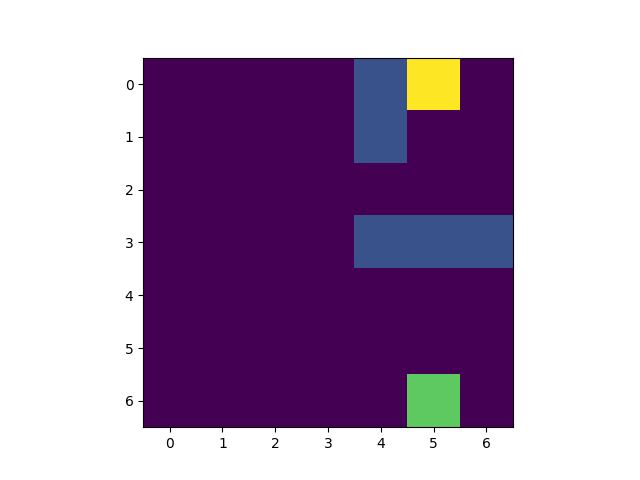
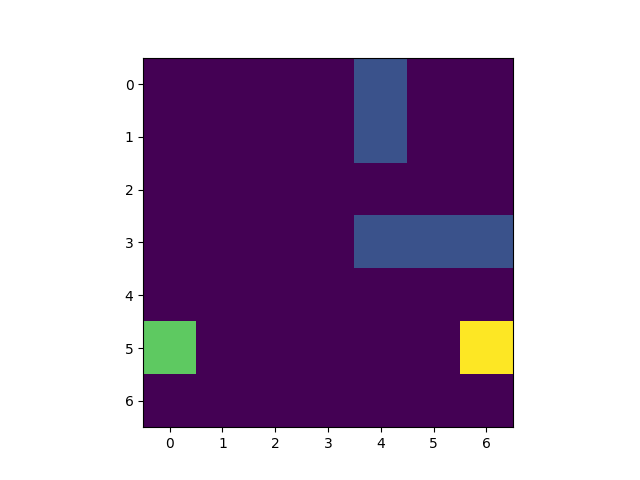
Jeremy take a look. fixed some indexing issues with visualization.

diff --git a/src/planner.cpp b/src/planner.cpp
@@ -465,8 +465,8 @@ int main(int argc, char** argv)
             //generate plan
             if(need_replan){
                 cout<<"replanning with map:\n";
-                for (int x=0;x<x_size;++x){
-                    for (int y=0;y<y_size;++y){
+                for (int y=0;y<y_size;++y){
+                    for (int x=0;x<x_size;++x){
                         int val=robot_map[get_key(x_size,x,y)];
                         if (x==current_node.x && y==current_node.y){
                             cout<<"R,";

diff --git a/maps/visualize_basic_map.py b/maps/visualize_basic_map.py
@@ -42,8 +42,8 @@ if __name__=="__main__":
     
     map_arr=np.array(map_)
 
-    map_arr[robot_x,robot_y]=4
-    map_arr[goal_x,goal_y]=3
+    map_arr[robot_y,robot_x]=4
+    map_arr[goal_y,goal_x]=3
     print(f"map:\n{map_arr}")
     plt.imshow(map_arr)
     # plt.scatter(robot_y,robot_x,50,"g")

diff --git a/include/planner.h b/include/planner.h
@@ -278,6 +278,7 @@ bool read_map(std::string map_name, int*& map, int& x_size, int& y_size, Node& s
             if (j != y_size-1) ss.ignore();
         }
     }
+
     myfile.close();
     return true;
 
